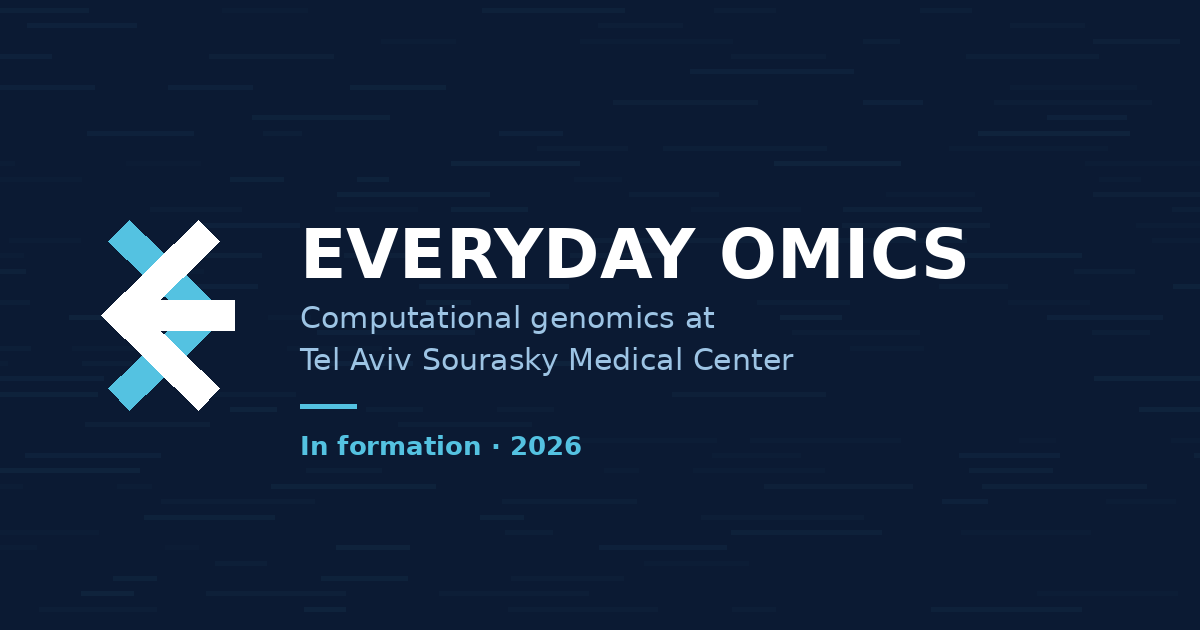
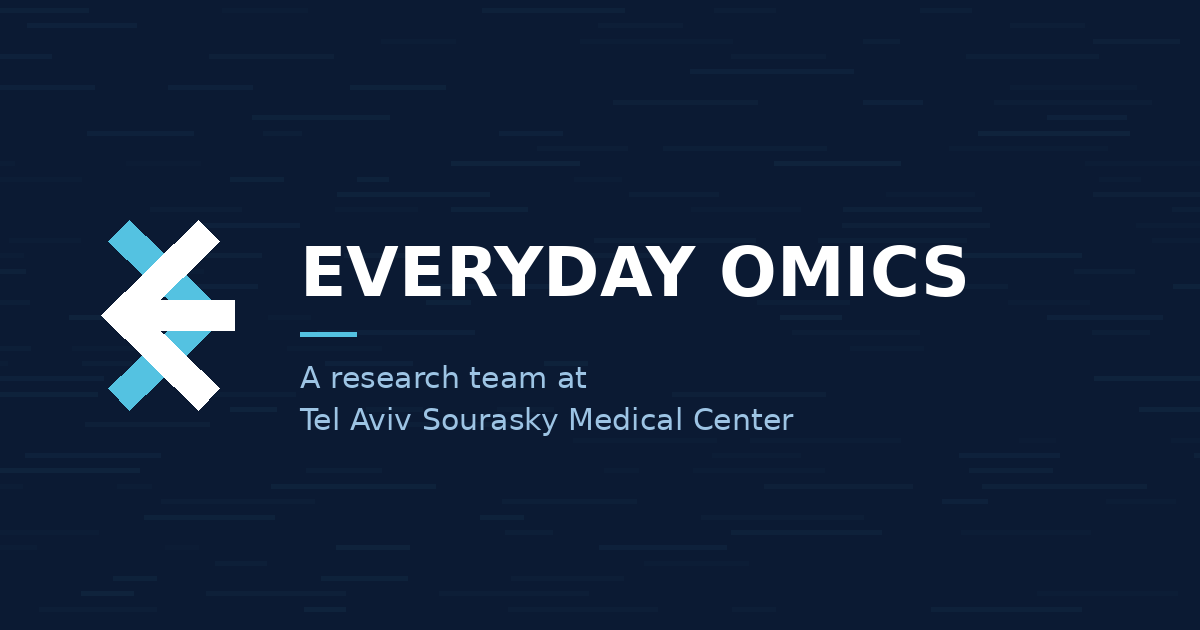
Strip the hero, add the opening statement, show only real people
The hero is now just the name and one line: "A research team based at Tel
Aviv Sourasky Medical Center." The eyebrow and the "In formation · 2026"
pill are gone.

Headings were set on Archivo's width axis at wdth 104-125, which reads as
horizontally stretched — the letterforms are wider without being taller.
All seven declarations are removed; the display face now sits at its drawn
proportions.

The section under the hero loses its title and carries the team's own
statement of what it does. "Our team" now lists actual members only; the
four open-role placeholders are gone.

Claude-Session: https://claude.ai/code/session_019YaKfF1tJrBkb2xorZLwm7

Changed region(s): [[0.2467, 0.3619, 0.8017, 0.7238]]

diff --git a/index.html b/index.html
@@ -3,12 +3,12 @@
 <head>
 <meta charset="utf-8">
 <meta name="viewport" content="width=device-width, initial-scale=1">
-<title>Everyday Omics — computational genomics at Tel Aviv Sourasky Medical Center</title>
-<meta name="description" content="Everyday Omics is a computational genomics team in formation at Tel Aviv Sourasky Medical Center, building models that read genomes and the evidence layer that makes them usable in care.">
+<title>Everyday Omics — a research team at Tel Aviv Sourasky Medical Center</title>
+<meta name="description" content="Everyday Omics is a research team at Tel Aviv Sourasky Medical Center specializing in basic and translational computational medical research — combining statistics and AI to turn real-world data into actionable clinical insights.">
 <link rel="canonical" href="https://everyday-omics.github.io/">
 <meta property="og:type" content="website">
 <meta property="og:title" content="Everyday Omics">
-<meta property="og:description" content="Computational genomics at Tel Aviv Sourasky Medical Center. The team is in formation.">
+<meta property="og:description" content="A research team at Tel Aviv Sourasky Medical Center. Statistics and AI turned into actionable clinical insight.">
 <meta property="og:url" content="https://everyday-omics.github.io/">
 <meta property="og:image" content="https://everyday-omics.github.io/assets/og.png">
 <meta name="twitter:card" content="summary_large_image">
@@ -52,7 +52,6 @@
       <span class="sr">Menu</span>
     </button>
     <nav class="nav__menu" id="navMenu" aria-label="Primary">
-      <a href="#vision">Vision</a>
       <a href="#research">Research</a>
       <a href="#publications">Publications</a>
       <a href="#team">Team</a>
@@ -83,40 +82,27 @@
   </div>
 
   <div class="hero__in wrap">
-    <p class="eyebrow eyebrow--onDark reveal">Tel&nbsp;Aviv Sourasky Medical Center</p>
     <h1 class="hero__title reveal">Everyday<br>Omics</h1>
     <p class="hero__lede reveal">
-      A computational genomics team turning multi-omic data into evidence
-      a clinician can act on — on an ordinary day, for an ordinary patient.
-    </p>
-    <p class="pills reveal">
-      <span class="pill pill--live">In formation · 2026</span>
+      A research team based at Tel&nbsp;Aviv Sourasky Medical Center.
     </p>
   </div>
 
-  <a class="hero__cue" href="#vision" aria-label="Scroll to content"><span></span></a>
+  <a class="hero__cue" href="#about" aria-label="Scroll to content"><span></span></a>
 </section>
 
 <!-- ─────────────────────────── the team ─────────────────────────── -->
-<section class="section section--intro" id="vision">
+<section class="section section--intro" id="about">
   <div class="wrap intro">
     <div class="intro__body">
-      <p class="eyebrow reveal">Our vision</p>
-      <h2 class="h2 reveal">A new team, built inside a hospital.</h2>
-      <p class="lede reveal">
-        Everyday Omics is being established at Tel Aviv Sourasky Medical Center. We sit
-        between the sequencer and the bedside: we build models that read genomes, and the
-        evidence layer that makes what they say usable in care.
+      <p class="reveal">
+        We specialize in basic and translational computational medical research,
+        combining statistics and AI to turn real-world data into actionable
+        clinical insights.
       </p>
       <p class="reveal">
-        Most of what genomics can already do never reaches the people it was meant to help.
-        Predictions arrive uncalibrated, evidence arrives without a source, and what lands in
-        the chart is a report nobody can act on. Closing that distance — between a measurement
-        and a decision someone is willing to defend — is the work.
-      </p>
-      <p class="reveal">
-        Everything we build is meant to run in a working hospital, on real patients, in the
-        time a clinician actually has.
+        We draw on user experience design, and on our own experience as clinicians,
+        to make technological advances genuinely useful in everyday work.
       </p>
     </div>
 
@@ -169,7 +155,7 @@
         <div class="theme__c">
           <h3 class="theme__t">Genomes read from cell-free DNA</h3>
           <p class="theme__b">
-            Fetal and tumour genomes leave traces in circulating blood. Building on Bayesian and
+            Fetal and tumor genomes leave traces in circulating blood. Building on Bayesian and
             deep-learning approaches to noninvasive prenatal diagnosis of monogenic disorders,
             we develop methods that recover genotypes accurately enough to act on — without an
             invasive procedure.
@@ -265,10 +251,9 @@
 <section class="section section--people" id="team">
   <div class="wrap">
     <p class="eyebrow reveal">Our team</p>
-    <h2 class="h2 reveal">Who’s here, and who isn’t yet.</h2>
+    <h2 class="h2 reveal">Who’s here.</h2>
     <p class="note reveal">
-      Everyday Omics is in formation, so most of this page is still empty on purpose. The
-      first people to join will shape what the team becomes.
+      The team is being established. More profiles will appear here as people join.
     </p>
 
     <div class="people">
@@ -284,7 +269,7 @@
           <h3 class="person__name">Tom Rabinowitz, MD-PhD</h3>
           <p class="person__role">Principal investigator</p>
           <p class="person__bio">
-            Physician-scientist. MD-PhD, Tel Aviv University; paediatrics at Tel Aviv Sourasky
+            Physician-scientist. MD-PhD, Tel Aviv University; pediatrics at Tel Aviv Sourasky
             Medical Center. Works on noninvasive genomics from cell-free DNA, variant effect
             prediction, and getting genomic evidence into clinical hands intact.
           </p>
@@ -296,35 +281,6 @@
         </div>
       </article>
 
-      <!-- ▼ EDIT OPEN ROLES HERE. When someone joins, replace a card with a copy of the
-           .person block above and drop their photo into assets/. -->
-      <ul class="openings">
-        <li class="opening reveal">
-          <p class="opening__k">Open</p>
-          <h3 class="opening__t">PhD student</h3>
-          <p class="opening__b">Genomic foundation models and variant effect prediction. You will own a model family and the benchmark that judges it.</p>
-        </li>
-        <li class="opening reveal">
-          <p class="opening__k">Open</p>
-          <h3 class="opening__t">MSc student</h3>
-          <p class="opening__b">Pharmacogenomics and polygenic risk inside a working hospital — from raw calls to something a physician reads.</p>
-        </li>
-        <li class="opening reveal">
-          <p class="opening__k">Open</p>
-          <h3 class="opening__t">Postdoctoral fellow</h3>
-          <p class="opening__b">Cell-free DNA methods. Bring a direction of your own; we will build the compute and the clinical access around it.</p>
-        </li>
-        <li class="opening reveal">
-          <p class="opening__k">Open</p>
-          <h3 class="opening__t">Research engineer</h3>
-          <p class="opening__b">Pipelines, evaluation harnesses and the infrastructure the science runs on. GPU cluster, real clinical data, real deadlines.</p>
-        </li>
-        <li class="opening opening--wait reveal">
-          <p class="opening__k">Reserved</p>
-          <h3 class="opening__t">You</h3>
-          <p class="opening__b">Clinician with a question the data should be able to answer? That is a role too. Tell us the question.</p>
-        </li>
-      </ul>
     </div>
   </div>
 </section>
@@ -345,7 +301,7 @@
       <ul>
         <li>A short note on what you want to work on, and why here.</li>
         <li>A CV.</li>
-        <li>A link to something you built, analysed or wrote.</li>
+        <li>A link to something you built, analyzed or wrote.</li>
       </ul>
     </div>
     <p class="reveal"><a class="btn mail" data-u="dG9tcmE=" data-d="dGx2bWMuZ292Lmls" data-s="Joining Everyday Omics" href="#join">Write to us</a></p>

diff --git a/assets/site.css b/assets/site.css
@@ -84,7 +84,6 @@ a:hover{ color:var(--navy); }
 
 .h2{
   font-family:var(--display);
-  font-variation-settings:"wdth" 120;
   font-weight:700;
   font-size:clamp(2rem, 4.4vw, 3.5rem);
   line-height:1.02;
@@ -143,7 +142,7 @@ a:hover{ color:var(--navy); }
 .nav.is-stuck .brand{ color:var(--ink); }
 .brand__mark{ width:30px; height:30px; flex:none; }
 .brand__name{
-  font-family:var(--display); font-variation-settings:"wdth" 108;
+  font-family:var(--display);
   font-weight:700; font-size:15px; letter-spacing:.06em; text-transform:uppercase;
 }
 
@@ -222,7 +221,6 @@ a:hover{ color:var(--navy); }
 
 .hero__title{
   font-family:var(--display);
-  font-variation-settings:"wdth" 125;
   font-weight:800;
   font-size:clamp(3.4rem, 11.5vw, 9rem);
   line-height:.87;
@@ -239,20 +237,6 @@ a:hover{ color:var(--navy); }
   margin-bottom:2.1em;
 }
 
-.pills{ display:flex; flex-wrap:wrap; gap:.6rem; margin:0; }
-.pill{
-  font-family:var(--mono); font-size:12.5px; letter-spacing:.08em; text-transform:uppercase;
-  padding:.55em 1em; border-radius:999px;
-  border:1px solid var(--rule-dark); color:rgba(255,255,255,.85);
-}
-.pill--live{ display:inline-flex; align-items:center; gap:.6em; border-color:color-mix(in srgb, var(--cyan) 55%, transparent); color:var(--cyan); }
-.pill--live::before{
-  content:""; width:7px; height:7px; border-radius:50%; background:var(--cyan);
-  box-shadow:0 0 0 0 color-mix(in srgb, var(--cyan) 60%, transparent);
-  animation:ping 2.6s ease-out infinite;
-}
-@keyframes ping{
-  0%{ box-shadow:0 0 0 0 color-mix(in srgb, var(--cyan) 55%, transparent); }
   70%,100%{ box-shadow:0 0 0 10px transparent; }
 }
 
@@ -268,7 +252,13 @@ a:hover{ color:var(--navy); }
 
 .section--intro{ background:var(--paper); }
 .intro{ display:grid; grid-template-columns:minmax(0,1.6fr) minmax(0,1fr); gap:clamp(2.5rem, 6vw, 6rem); align-items:start; }
-.intro__body p:not(.eyebrow){ max-width:56ch; }
+.intro__body p{
+  font-size:clamp(1.2rem, 1.85vw, 1.58rem);
+  line-height:1.46;
+  letter-spacing:-.008em;
+  max-width:46ch;
+  margin:0 0 1.05em;
+}
 
 .host{
   background:var(--surface);
@@ -309,7 +299,7 @@ a:hover{ color:var(--navy); }
 .theme:hover{ background:var(--surface); }
 
 .theme__q{
-  font-family:var(--display); font-variation-settings:"wdth" 100;
+  font-family:var(--display);
   font-weight:600; font-size:clamp(1.25rem, 2.1vw, 1.75rem); line-height:1.16;
   letter-spacing:-.012em; color:var(--blue); margin:0; text-wrap:balance;
 }
@@ -368,25 +358,13 @@ a:hover{ color:var(--navy); }
   background:linear-gradient(150deg, color-mix(in srgb, var(--cyan) 18%, var(--surface)), color-mix(in srgb, var(--blue) 14%, var(--surface)));
   border:1px solid var(--rule);
 }
-.person__name{ font-family:var(--display); font-variation-settings:"wdth" 106; font-weight:700; font-size:1.42rem; letter-spacing:-.015em; margin:0 0 .2em; }
+.person__name{ font-family:var(--display); font-weight:700; font-size:1.42rem; letter-spacing:-.015em; margin:0 0 .2em; }
 .person__role{ font-family:var(--mono); font-size:12px; letter-spacing:.16em; text-transform:uppercase; color:var(--blue); margin:0 0 1.1em; }
 .person__bio{ max-width:58ch; }
 .person__links{ display:flex; flex-wrap:wrap; gap:1.4rem; margin:1.4em 0 0; }
 .person__links a{ font-family:var(--mono); font-size:13px; text-decoration:none; border-bottom:1px solid var(--rule); padding-bottom:.25em; }
 .person__links a:hover{ border-bottom-color:var(--blue); }
 
-.openings{ list-style:none; margin:0; padding:0; display:grid; grid-template-columns:repeat(auto-fit, minmax(232px,1fr)); gap:clamp(1rem,1.8vw,1.4rem); }
-.opening{
-  border:1px dashed color-mix(in srgb, var(--blue) 38%, transparent);
-  border-radius:3px; padding:1.5rem 1.4rem; background:transparent;
-  transition:background .3s ease, border-color .3s ease, transform .3s ease;
-}
-.opening:hover{ background:var(--surface); border-color:var(--blue); border-style:solid; transform:translateY(-3px); }
-.opening__k{ font-family:var(--mono); font-size:11px; letter-spacing:.18em; text-transform:uppercase; color:var(--blue); margin:0 0 .8em; }
-.opening__t{ font-family:var(--display); font-variation-settings:"wdth" 104; font-weight:700; font-size:1.15rem; letter-spacing:-.01em; margin:0 0 .5em; }
-.opening__b{ font-size:.97rem; line-height:1.5; color:var(--ink-2); margin:0; }
-.opening--wait{ border-color:var(--rule); }
-.opening--wait .opening__k{ color:var(--ink-2); }
 
 /* ── join ────────────────────────────────────────────────────────────────── */
 
@@ -427,7 +405,7 @@ a:hover{ color:var(--navy); }
 
 .foot__brand{ display:flex; align-items:flex-start; gap:1rem; }
 .foot__logo{ width:48px; height:48px; flex:none; }
-.foot__name{ font-family:var(--display); font-variation-settings:"wdth" 112; font-weight:700; font-size:1.25rem; letter-spacing:-.01em; color:#fff; }
+.foot__name{ font-family:var(--display); font-weight:700; font-size:1.25rem; letter-spacing:-.01em; color:#fff; }
 .foot__sub{ font-family:var(--mono); font-size:12.5px; color:rgba(255,255,255,.6); }
 .foot__h{ font-family:var(--mono); font-size:11px; letter-spacing:.18em; text-transform:uppercase; color:var(--cyan); margin-bottom:1em; }
 .foot__he{ font-size:.95rem; text-align:left; }

diff --git a/README.md b/README.md
@@ -26,16 +26,17 @@ block, paste it at the top of the list, and change the year, title, authors and 
 Wrap the PI's name in `<b>…</b>` so it stands out. The `Find` link is a Google Scholar
 search on the title, so it never goes stale.
 
-**Open roles and team members** — under `id="team"`, find `EDIT OPEN ROLES HERE`. To add a person, copy the
-`<article class="person">` block above the openings list and swap the portrait `<svg>` for
-`<img src="assets/their-photo.jpg" alt="">`. Delete an `<li class="opening">` when the role
-is filled.
+**Team members** — under `id="team"`. To add someone, copy the `<article class="person">`
+block and swap the portrait `<svg>` for `<img src="assets/their-photo.jpg" alt="">`.
 
 **Research themes** — the three `<li class="theme">` blocks under `id="research"`.
 
-**Status** — the site says the team is in formation in four places: the hero pill, the
-publications note, the team note and the footer fine print. Search for `in formation`
-when that stops being true.
+**Status** — the site says the team is being established in three places: the publications
+note, the team note and the footer fine print.
+
+**Type** — the display face is Archivo at its drawn proportions. Do not reintroduce
+`font-variation-settings: "wdth"` above 100; expanding the width axis makes the headings
+read as horizontally stretched.
 
 ## Colours
 
